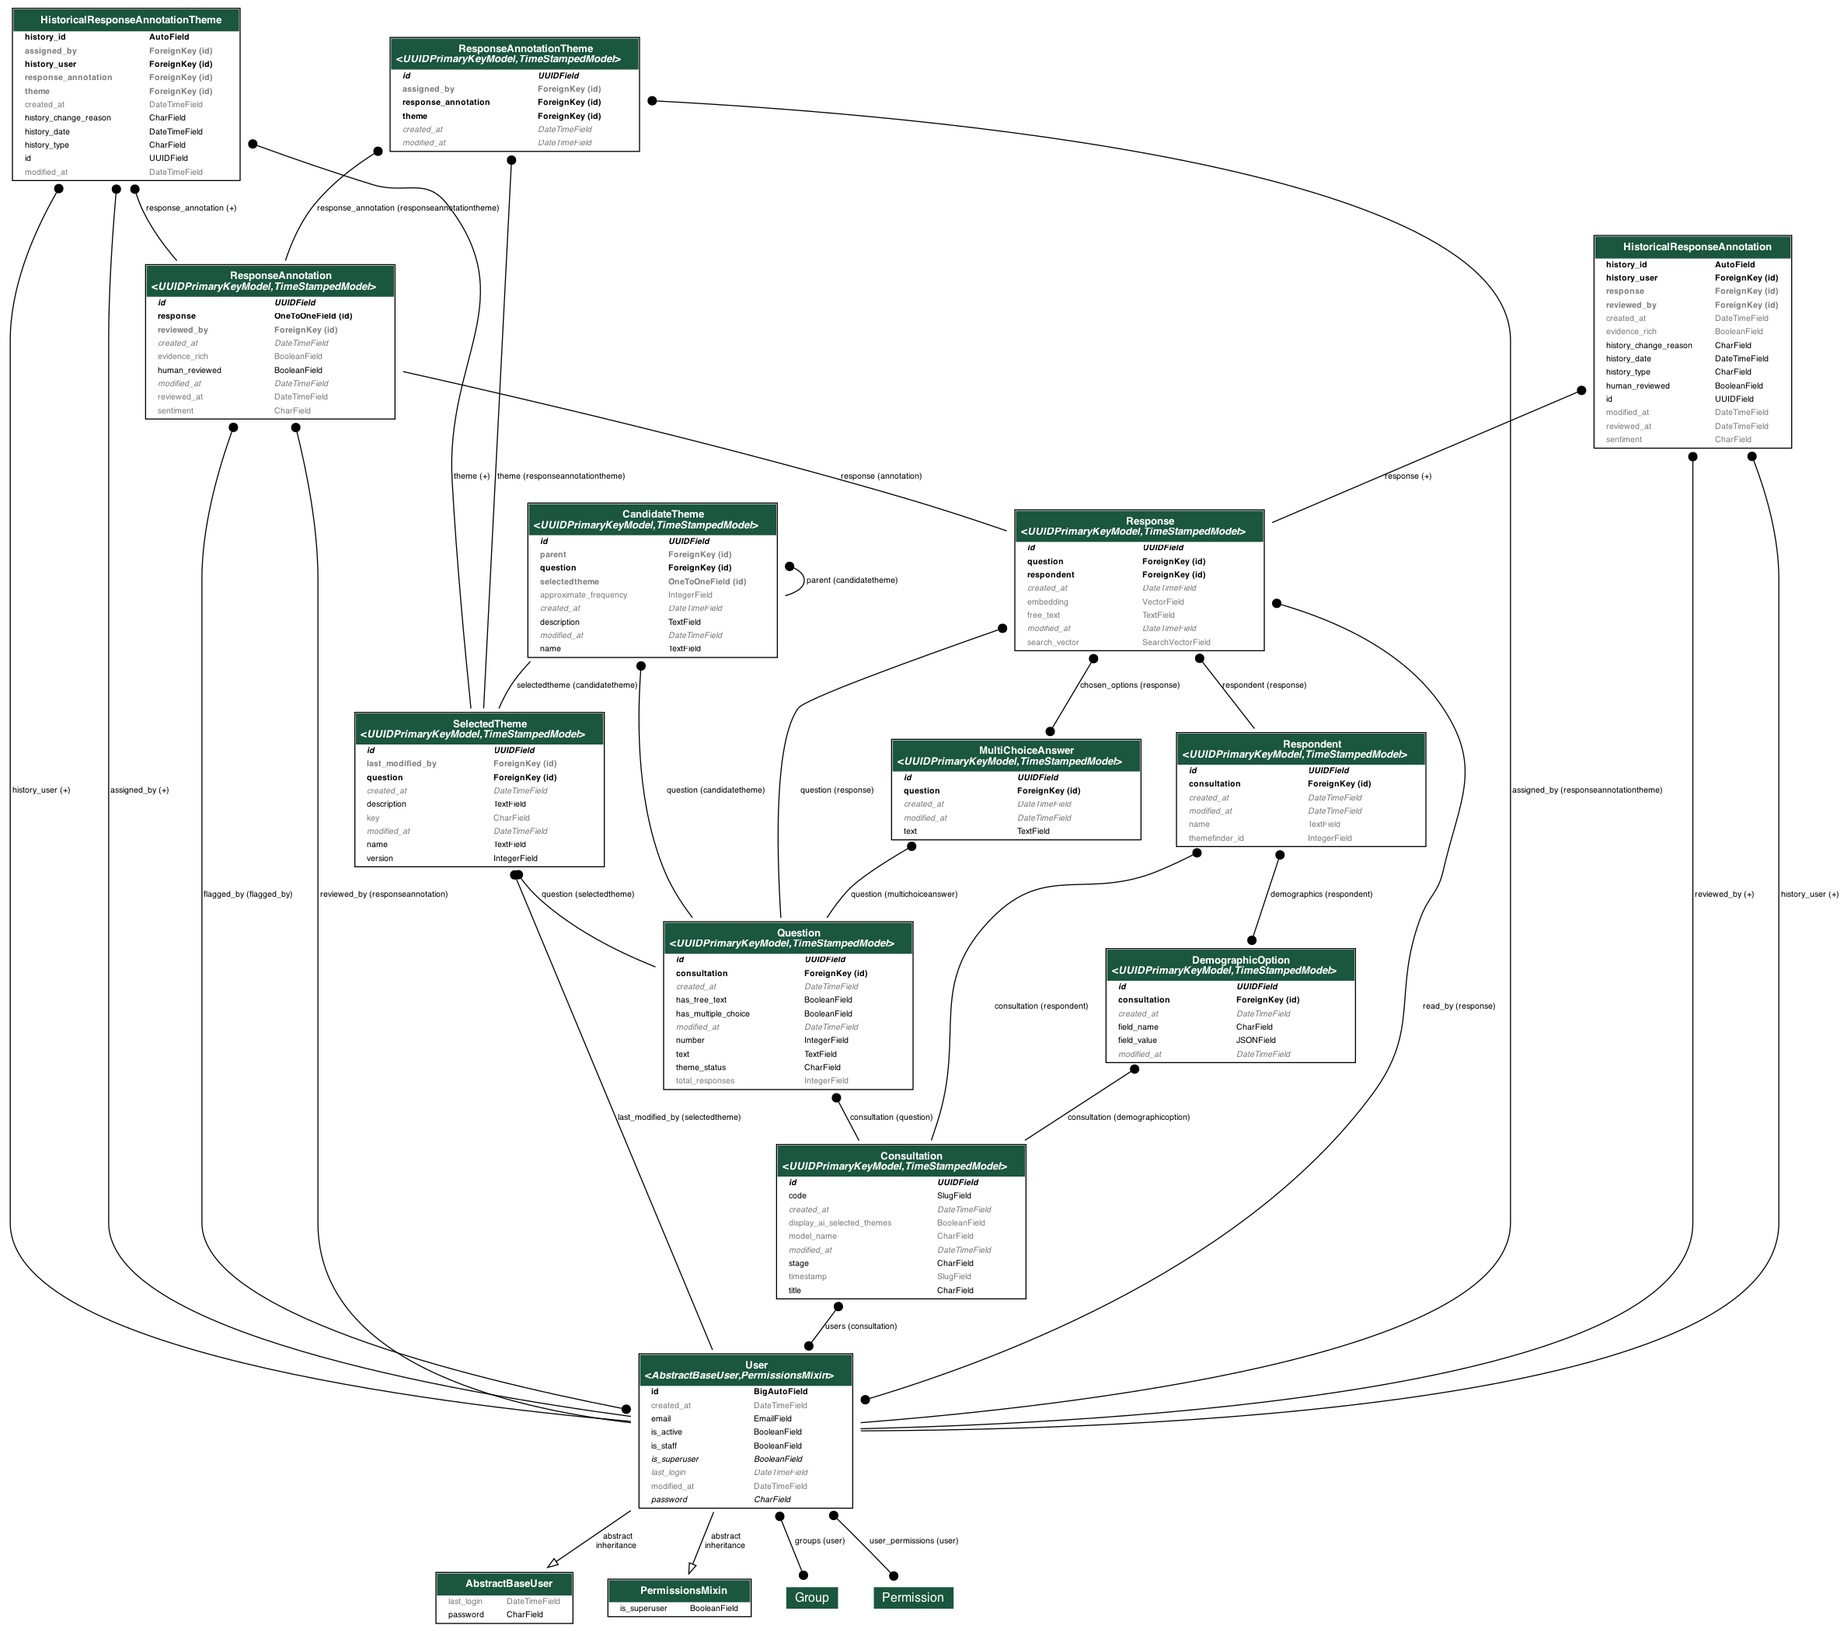
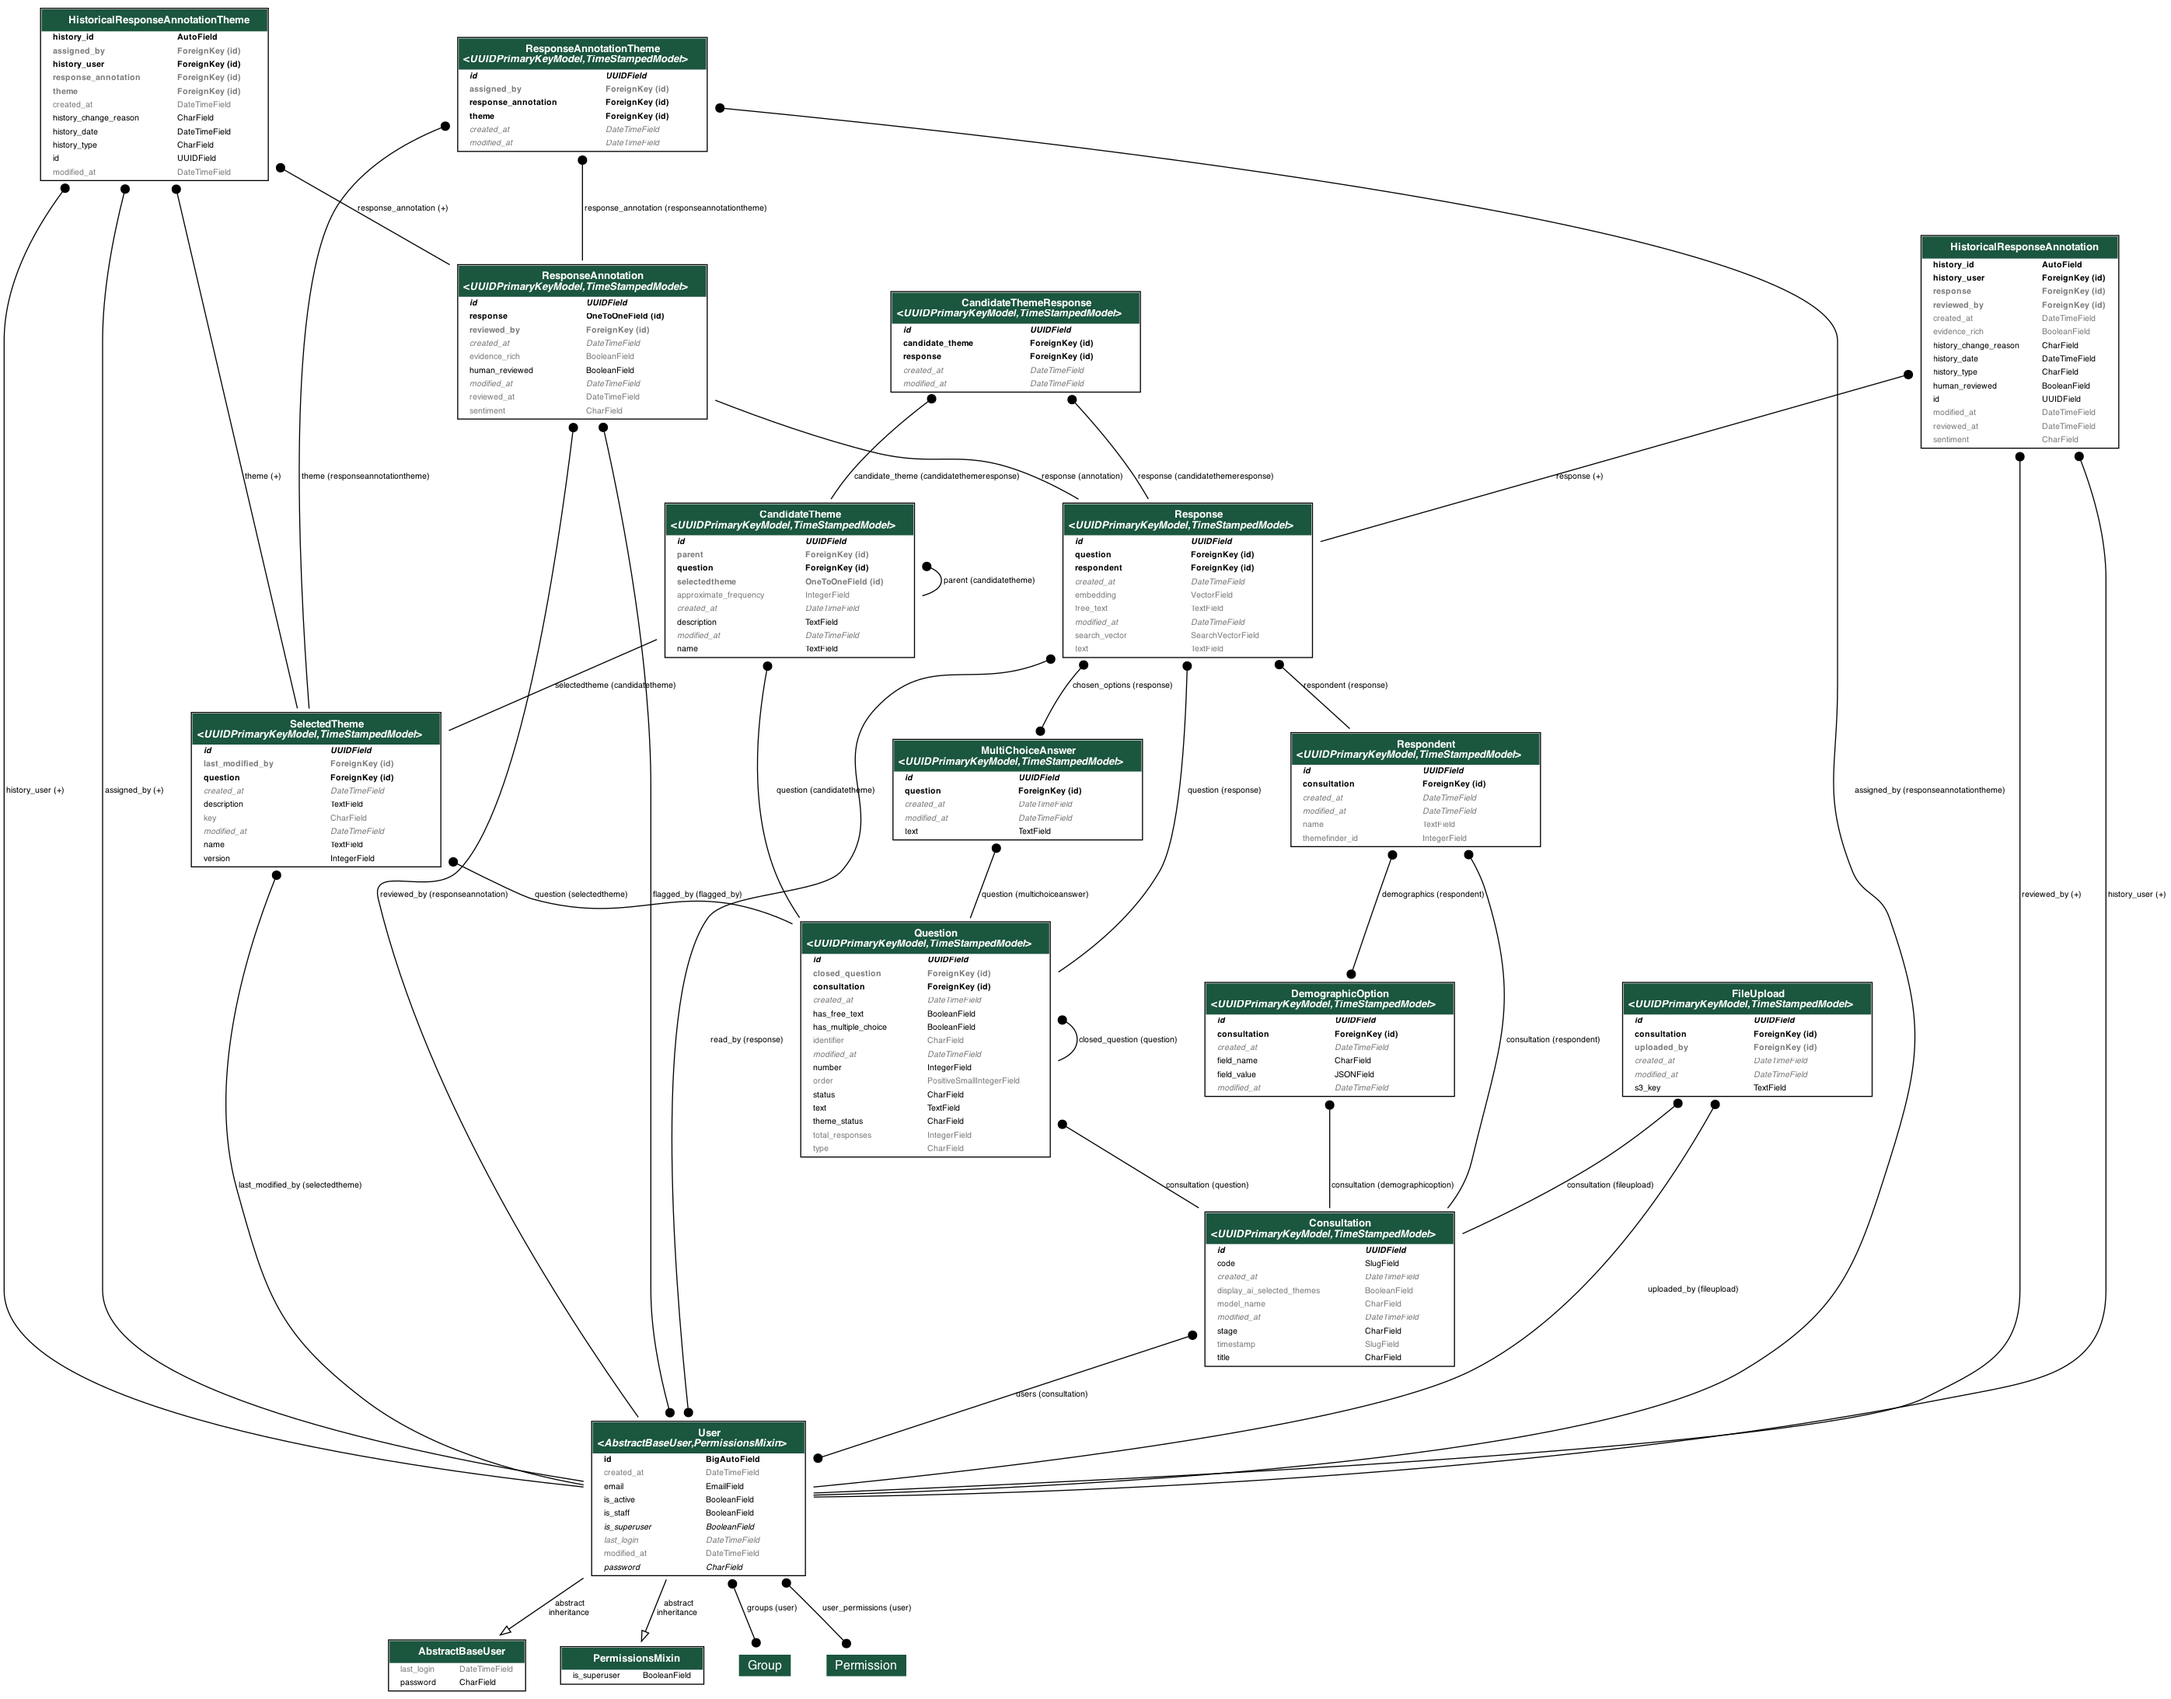
feat: Create CandidateThemeResponse table
So we can store and retrieve responses assigned to candidate themes to
help users decide which candidate themes to select and edit whilst they
are finalising themes.

diff --git a/backend/tests/unit/test_delete_consultation.py b/backend/tests/unit/test_delete_consultation.py
@@ -4,6 +4,8 @@ import pytest
 
 from authentication.models import User
 from consultations.models import (
+    CandidateTheme,
+    CandidateThemeResponse,
     Consultation,
     DemographicOption,
     MultiChoiceAnswer,
@@ -89,6 +91,19 @@ def test_delete_consultation_cascading():
     )
     annotation2.themes.add(theme2)
 
+    # Create candidate themes and candidate theme responses
+    candidate_theme = CandidateTheme.objects.create(
+        question=question,
+        name="Candidate Theme",
+        description="A candidate theme",
+    )
+    CandidateThemeResponse.objects.create(
+        candidate_theme=candidate_theme, response=response1
+    )
+    CandidateThemeResponse.objects.create(
+        candidate_theme=candidate_theme, response=response2
+    )
+
     # Create multiple choice question
     multiple_choice_question = Question.objects.create(
         consultation=consultation,
@@ -112,6 +127,8 @@ def test_delete_consultation_cascading():
     assert Response.objects.count() == 4
     assert SelectedTheme.objects.count() == 2
     assert ResponseAnnotation.objects.count() == 2
+    assert CandidateTheme.objects.count() == 1
+    assert CandidateThemeResponse.objects.count() == 2
     assert MultiChoiceAnswer.objects.count() == 3
 
     # Delete the consultation
@@ -124,6 +141,8 @@ def test_delete_consultation_cascading():
     assert Response.objects.count() == 0
     assert SelectedTheme.objects.count() == 0
     assert ResponseAnnotation.objects.count() == 0
+    assert CandidateTheme.objects.count() == 0
+    assert CandidateThemeResponse.objects.count() == 0
     assert MultiChoiceAnswer.objects.count() == 0
 
 

diff --git a/backend/consultations/migrations/0097_candidatethemeresponse.py b/backend/consultations/migrations/0097_candidatethemeresponse.py
@@ -1,0 +1,31 @@
+# Generated by Django 6.0.2 on 2026-04-02 11:41
+
+import django.db.models.deletion
+import uuid
+from django.db import migrations, models
+
+
+class Migration(migrations.Migration):
+
+    dependencies = [
+        ('consultations', '0096_question_status'),
+    ]
+
+    operations = [
+        migrations.CreateModel(
+            name='CandidateThemeResponse',
+            fields=[
+                ('id', models.UUIDField(default=uuid.uuid4, editable=False, primary_key=True, serialize=False)),
+                ('created_at', models.DateTimeField(auto_now_add=True)),
+                ('modified_at', models.DateTimeField(auto_now=True)),
+                ('candidate_theme', models.ForeignKey(on_delete=django.db.models.deletion.CASCADE, to='consultations.candidatetheme')),
+                ('response', models.ForeignKey(on_delete=django.db.models.deletion.CASCADE, to='consultations.response')),
+            ],
+            options={
+                'ordering': ['created_at'],
+                'abstract': False,
+                'indexes': [models.Index(fields=['candidate_theme'], name='consultatio_candida_13d7bd_idx')],
+                'constraints': [models.UniqueConstraint(fields=('candidate_theme', 'response'), name='unique_candidate_theme_response')],
+            },
+        ),
+    ]

diff --git a/backend/consultations/models.py b/backend/consultations/models.py
@@ -352,6 +352,31 @@ class CandidateTheme(UUIDPrimaryKeyModel, TimeStampedModel):
         return self.name
 
 
+class CandidateThemeResponse(UUIDPrimaryKeyModel, TimeStampedModel):
+    """Responses assigned to candidate themes.
+
+    Populated by the assign-themes batch job when run before assigning themes phase,
+    so users can see which responses each candidate theme covers when finalising themes.
+    """
+
+    candidate_theme = models.ForeignKey(CandidateTheme, on_delete=models.CASCADE)
+    response = models.ForeignKey(Response, on_delete=models.CASCADE)
+
+    class Meta(UUIDPrimaryKeyModel.Meta, TimeStampedModel.Meta):
+        constraints = [
+            models.UniqueConstraint(
+                fields=["candidate_theme", "response"],
+                name="unique_candidate_theme_response",
+            ),
+        ]
+        indexes = [
+            models.Index(fields=["candidate_theme"]),
+        ]
+
+    def __str__(self):
+        return f"{self.candidate_theme.name} -> {self.response_id}"
+
+
 class ResponseAnnotationTheme(UUIDPrimaryKeyModel, TimeStampedModel):
     """Through model to track original AI vs human-reviewed theme assignments"""
 

diff --git a/backend/ingest/jobs.py b/backend/ingest/jobs.py
@@ -122,6 +122,7 @@ def delete_consultation_job(consultation: models.Consultation):
         logger.info("Deleting response annotation themes...")
         delete_response_annotation_themes(consultation_id)
 
+        delete_response_related_table("consultations_candidatethemeresponse", consultation_id)
         delete_response_related_table("consultations_responseannotation", consultation_id)
         delete_response_related_table("consultations_response_chosen_options", consultation_id)
         delete_response_related_table("consultations_response_read_by", consultation_id)
